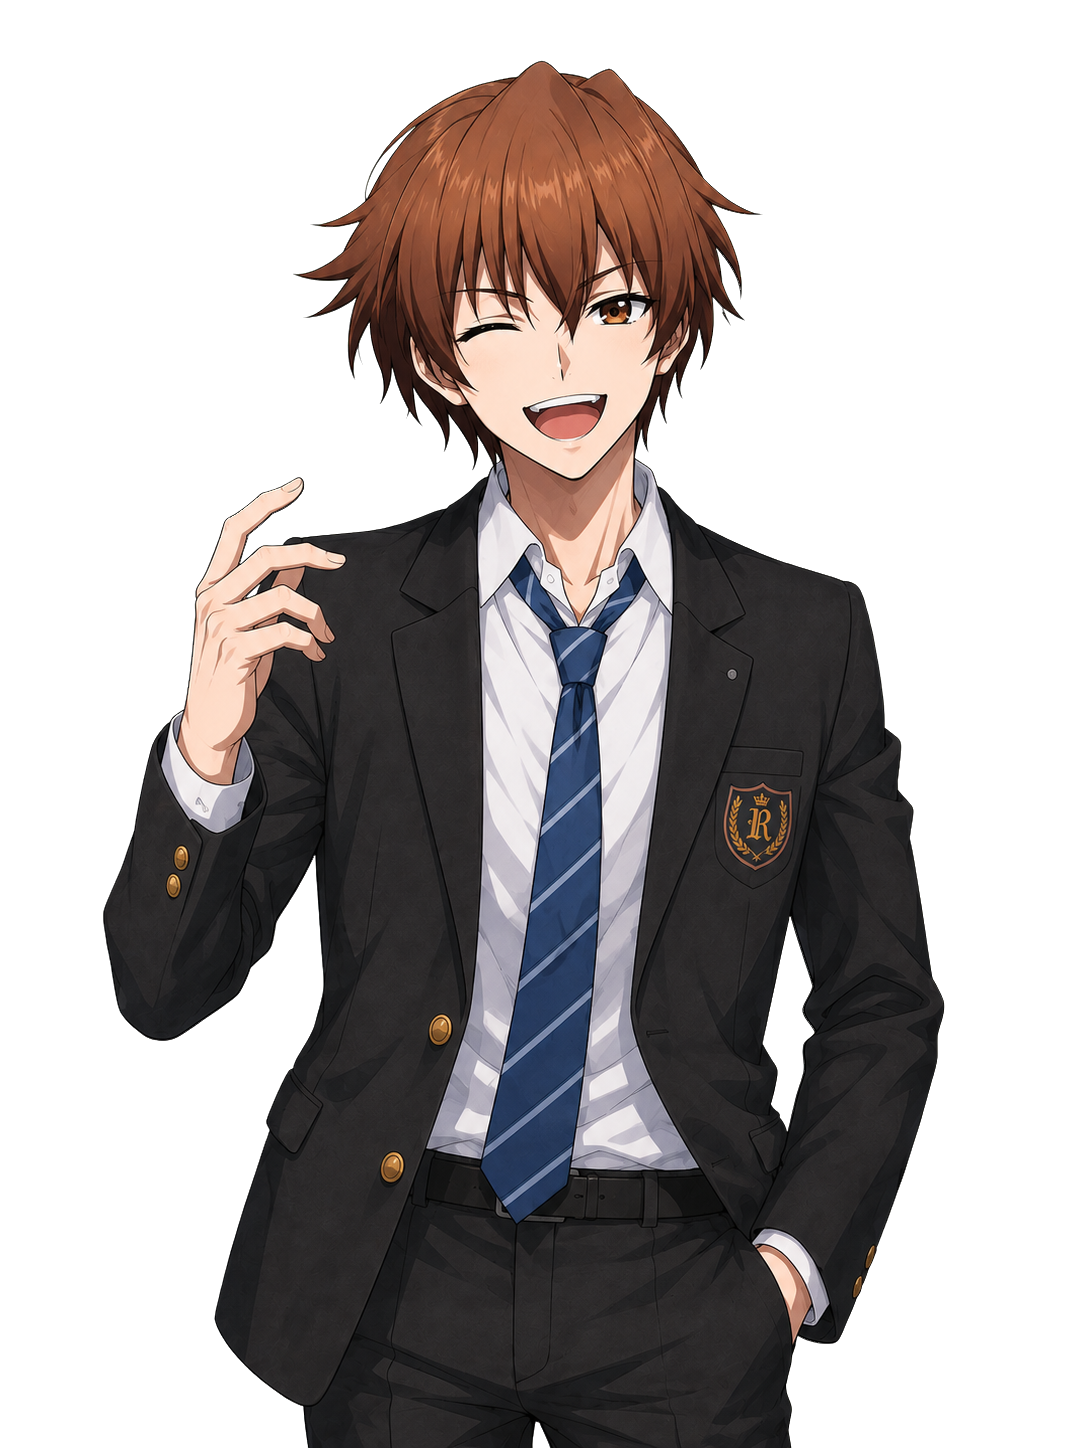
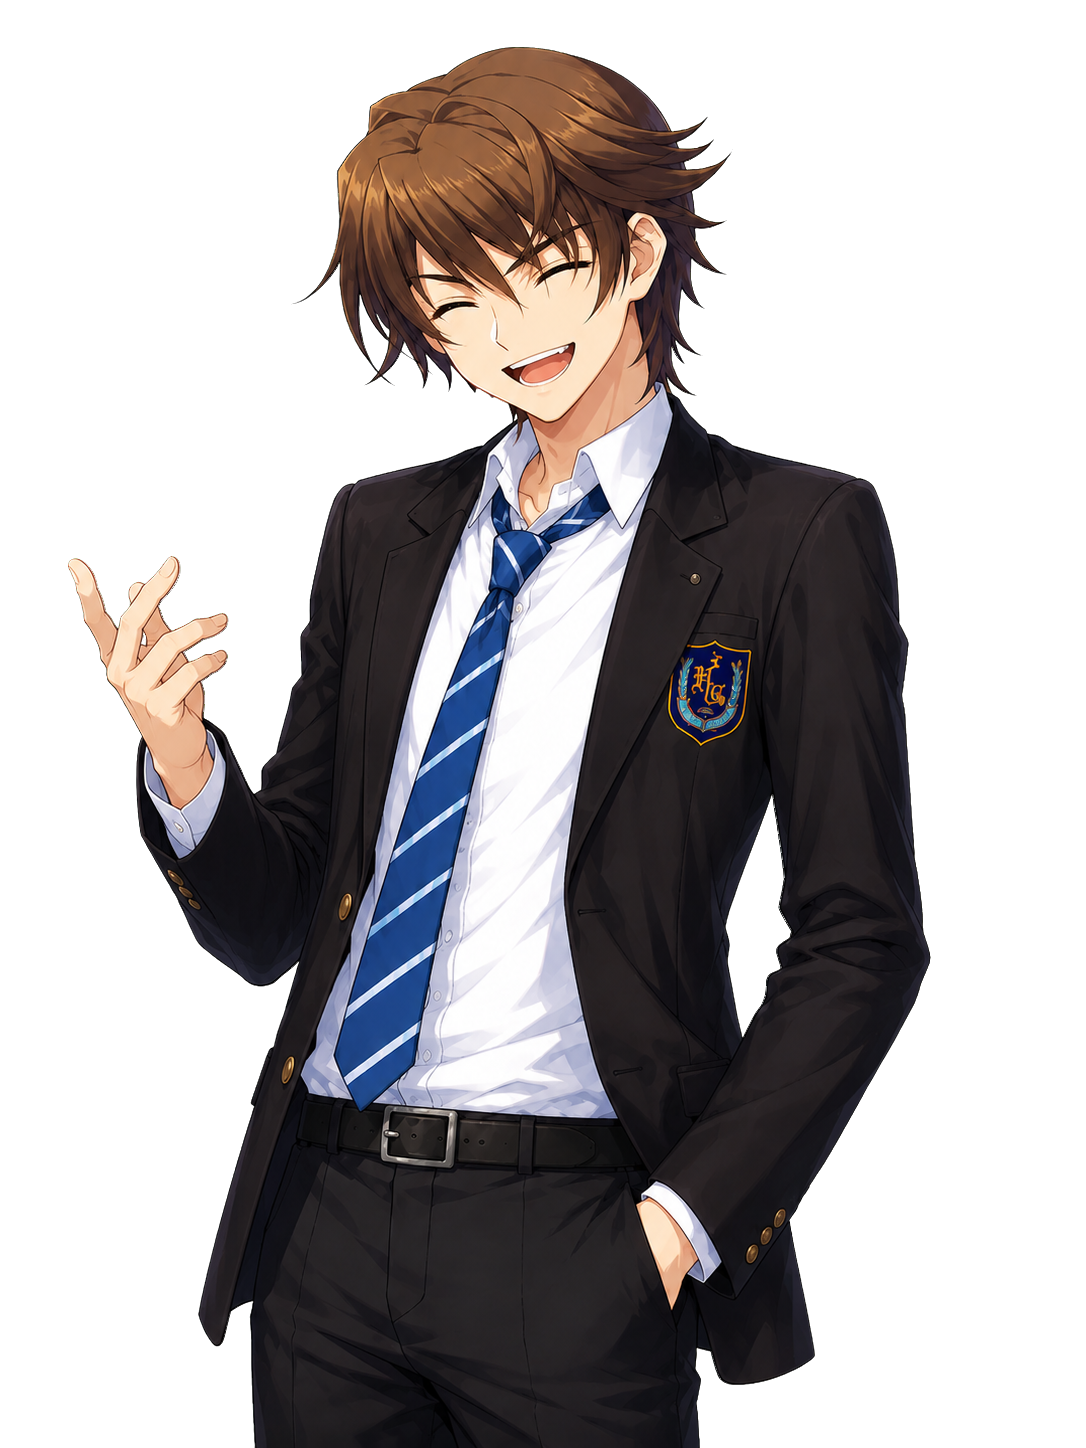
feat: expand WA2 character guidance and portraits

diff --git a/test/game-card/whiteAlbumCharacterGuide.test.js b/test/game-card/whiteAlbumCharacterGuide.test.js
@@ -1,0 +1,90 @@
+const fs = require('node:fs');
+const path = require('node:path');
+const { card, stateSchema } = require('./whiteAlbumTestCard');
+const { applyGameCard } = require('../../src/renderer/gameCard/engine');
+const { ensureStateDefaults } = require('../../src/shared/game-card/state/stateSchema');
+const { mergeAudioStateSchema } = require('../../src/renderer/gameCard/stateSchemaLoader');
+
+const loadedCard = mergeAudioStateSchema({ ...card, state: { ...card.state, schema: stateSchema } });
+const cardDir = path.join(__dirname, '../../game-card-examples/white-album-2');
+const readCardFile = (relativePath) => fs.readFileSync(path.join(cardDir, relativePath), 'utf-8');
+const fileContents = {
+  'first_msg.md': readCardFile('first_msg.md'),
+  'system_prompt.md': readCardFile('system_prompt.md'),
+  'roleplay_rules.md': readCardFile('roleplay_rules.md'),
+  'plot/chapter-1.md': readCardFile('plot/chapter-1.md'),
+  'plot/chapter-2.md': readCardFile('plot/chapter-2.md'),
+  'state/schema.json': JSON.stringify(stateSchema),
+  'state/llm_schema.md': readCardFile('state/llm_schema.md'),
+  'state/state_update_rules.md': readCardFile('state/state_update_rules.md'),
+  'scripts/timeline.js': readCardFile('scripts/timeline.js'),
+  'scripts/timelines/chapter-1.js': readCardFile('scripts/timelines/chapter-1.js'),
+  'scripts/timelines/chapter-2.js': readCardFile('scripts/timelines/chapter-2.js'),
+  'worldbook/characters.md': readCardFile('worldbook/characters.md'),
+  'worldbook/index.md': readCardFile('worldbook/index.md'),
+  'worldbook/location.md': readCardFile('worldbook/location.md')
+};
+
+function runFreePlot(currentTime = '2007.10.25: 08:00 星期四') {
+  const state = ensureStateDefaults(loadedCard.state.schema, {
+    timeline: { currentTime }
+  }).state;
+  const init = applyGameCard({ card: loadedCard, phase: 'init', messages: [], state, fileContents });
+  return applyGameCard({
+    card: loadedCard,
+    phase: 'pre_send',
+    messages: [...init.messages, { role: 'user', content: '继续' }],
+    state: init.state,
+    fileContents
+  });
+}
+
+function latestUserGuide(result) {
+  return result.messages.findLast((message) => message.role === 'user').content;
+}
+
+describe('white album character weak guide', () => {
+  afterEach(() => jest.restoreAllMocks());
+
+  test('injects the Setsuna guide independently from a negative plot mood', () => {
+    jest.spyOn(Math, 'random')
+      .mockReturnValueOnce(0)
+      .mockReturnValueOnce(0.99)
+      .mockReturnValue(0);
+
+    const result = runFreePlot();
+
+    expect(result.state.temp.plotMood).toBe('tragic');
+    expect(result.state.temp.characterGuideRoll).toBe(100);
+    expect(latestUserGuide(result)).toContain('本轮可以根据用户行动、当前场景和最近剧情');
+  });
+
+  test('omits the Setsuna guide independently from a positive plot mood', () => {
+    jest.spyOn(Math, 'random')
+      .mockReturnValueOnce(0.99)
+      .mockReturnValueOnce(0)
+      .mockReturnValue(0);
+
+    const result = runFreePlot();
+
+    expect(result.state.temp.plotMood).toBe('happy');
+    expect(result.state.temp.characterGuideRoll).toBe(1);
+    expect(latestUserGuide(result)).not.toContain('本轮可以根据用户行动、当前场景和最近剧情');
+  });
+
+  test.each([
+    ['FreePlot3', '2007.10.30: 17:30 星期二'],
+    ['FreePlot4', '2007.10.31: 17:30 星期三']
+  ])('injects the Touma guide during %s', (plotType, currentTime) => {
+    jest.spyOn(Math, 'random')
+      .mockReturnValueOnce(0.5)
+      .mockReturnValueOnce(0.99)
+      .mockReturnValue(0);
+
+    const result = runFreePlot(currentTime);
+
+    expect(result.state.temp.PlotType).toBe(plotType);
+    expect(result.state.temp.characterGuideRoll).toBe(100);
+    expect(latestUserGuide(result)).toContain('选择是否加入一次关于冬马和纱的自然弱引导');
+  });
+});

diff --git a/test/game-card/whiteAlbumPortraitSelection.test.js b/test/game-card/whiteAlbumPortraitSelection.test.js
@@ -8,23 +8,31 @@ const { mergeAudioStateSchema } = require('../../src/renderer/gameCard/stateSche
 const cardDir = path.join(__dirname, '../../game-card-examples/white-album-2');
 const loadedCard = mergeAudioStateSchema({ ...card, state: { ...card.state, schema: stateSchema } });
 const portraitCharacters = Object.keys(loadedCard.visual.portrait);
-const portraitExpressions = ['normal', 'happy', 'sad', 'angry', 'surprise'];
+const portraitExpressions = [
+  'normal', 'happy', 'sad', 'cry', 'angry', 'surprise', 'joy', 'sweating_smile'
+];
 const portraitNames = {
   touma: '冬马和纱',
   setsuna: '小木曾雪菜',
   mizusawa: '水泽依绪',
   takeya: '饭冢武也',
+  chikashi: '早坂亲志',
   yanagihara: '柳原朋'
 };
 const portraitExpressionMeanings = {
   normal: '平静自然',
   happy: '开心喜悦',
   sad: '悲伤失落',
+  cry: '哭泣落泪',
   angry: '生气愤怒',
-  surprise: '惊讶意外'
+  surprise: '惊讶意外',
+  joy: '兴奋欢笑',
+  sweating_smile: '尴尬冒汗地笑'
 };
+const yanagiharaExpressionAliases = { cry: 'sad', joy: 'happy', sweating_smile: 'normal' };
+const portraitProperties = stateSchema.schema['visual.portraits'].properties;
 const portraitCases = portraitCharacters.flatMap(character => (
-  Object.keys(loadedCard.visual.portrait[character]).map(expression => [character, expression])
+  portraitProperties[character].values.map(expression => [character, expression])
 ));
 
 function pngDimensions(filePath) {
@@ -71,16 +79,26 @@ describe('white album portrait selection', () => {
     });
   });
 
-  test('registers five expressions for all five supported characters', () => {
-    expect(portraitCharacters).toHaveLength(5);
-    ['touma', 'setsuna', 'mizusawa', 'takeya', 'yanagihara'].forEach((character) => {
+  test('registers all eight expressions for all six supported characters', () => {
+    expect(portraitCharacters).toHaveLength(6);
+    ['touma', 'setsuna', 'mizusawa', 'takeya', 'chikashi', 'yanagihara'].forEach((character) => {
       portraitExpressions.forEach((expression) => {
         const resource = loadedCard.visual.portrait[character][expression];
-        expect(resource).toBe(`images/${character}/${expression}.png`);
+        const fileExpression = character === 'yanagihara'
+          ? yanagiharaExpressionAliases[expression] || expression
+          : expression;
+        expect(resource).toBe(`images/${character}/${fileExpression}.png`);
         const imagePath = path.join(cardDir, resource);
         expect(fs.existsSync(imagePath)).toBe(true);
-        expect(pngDimensions(imagePath)).toEqual({ width: 2560, height: 1920, colorType: 6 });
+        expect(pngDimensions(imagePath)).toEqual({ width: 1086, height: 1448, colorType: 6 });
       });
+    });
+  });
+
+  test('keeps all character resource and state expression sets aligned', () => {
+    portraitCharacters.forEach((character) => {
+      expect(Object.keys(loadedCard.visual.portrait[character])).toEqual(portraitExpressions);
+      expect(portraitProperties[character].values).toEqual(portraitExpressions);
     });
   });
 

diff --git a/test/game-card/whiteAlbumChikashiWorldbook.test.js b/test/game-card/whiteAlbumChikashiWorldbook.test.js
@@ -1,0 +1,25 @@
+const fs = require('node:fs');
+const path = require('node:path');
+const { card } = require('./whiteAlbumTestCard');
+
+const cardDir = path.join(__dirname, '../../game-card-examples/white-album-2');
+const readCardFile = (relativePath) => fs.readFileSync(path.join(cardDir, relativePath), 'utf-8');
+
+describe('white album Chikashi worldbook', () => {
+  test('documents Chikashi in the character book and index', () => {
+    const characters = readCardFile('worldbook/characters.md');
+    const index = readCardFile('worldbook/index.md');
+
+    expect(characters).toContain('## 早坂亲志');
+    expect(characters).toContain('三年E班学生，春希的同班同学');
+    expect(characters).toContain('实际经常把麻烦和工作托付给认真负责的春希');
+    expect(index).toContain('- 早坂亲志: 春希的三年E班同学');
+  });
+
+  test('loads the entry when recent messages mention Chikashi', () => {
+    const rules = JSON.stringify(card.rules);
+
+    expect(rules).toContain('亲志|親志|早坂|Hayasaka|Chikashi');
+    expect(rules).toContain('{{file:worldbook.characters#早坂亲志}}');
+  });
+});

diff --git a/game-card-examples/white-album-2/scripts/timeline.js b/game-card-examples/white-album-2/scripts/timeline.js
@@ -49,6 +49,7 @@ function run(ctx) {
     state.temp.plotKind = 'free';
     state.temp.includeFreeGuide = true;
     state.temp.plotDirectionRoll = roll;
+    state.temp.characterGuideRoll = utils.randomInt(1, 100);
     state.temp.plotMood = mood;
     state.temp.plotMoodSection = `PlotMood_${mood}`;
     state.temp.toumaAttitudeSection = resolveAttitudeSection('ToumaAttitude', state.touma && state.touma.affection);
@@ -58,6 +59,7 @@ function run(ctx) {
   function applyFixedPlot() {
     state.temp.plotKind = 'fixed';
     state.temp.includeFreeGuide = false;
+    state.temp.characterGuideRoll = 0;
     state.temp.plotMood = '';
     state.temp.plotMoodSection = '';
     state.temp.toumaAttitudeSection = '';

diff --git a/game-card-examples/white-album-2/plot/chapter-2.md b/game-card-examples/white-album-2/plot/chapter-2.md
@@ -20,7 +20,7 @@
 
 第二段剧情时间段：2007.10.25: 7:30 星期四 - 2007.10.25: 8:00 星期四
 
-剧情引导：经过三人合奏后，春希又对轻音乐同好会登台演出燃起了希望，于是在节目单中将划掉的轻音乐同好会演出加了回来。早上刚到学校，依绪在E班门口对春希说有人找他，让他出来来学校楼梯处一下。原来是雪菜希望对昨天的邀请做一个回应。雪菜说经过一个晚上的思考，觉得果然还是不能加入轻音乐同好会，所以拒绝了春希。春希表示理解，说雪菜连选美都不愿意参加，怎么愿意出这种风头呢。春希转身要走时，雪菜在身后说对不起，没能帮上你。春希察觉到雪菜虽然拒绝了，但神情有些微妙，说不定可以想些别的方法。
+剧情引导：经过三人合奏后，春希又对轻音乐同好会登台演出燃起了希望，于是在节目单中将划掉的轻音乐同好会演出加了回来。早上刚到学校，依绪在E班门口对春希说有人找他，让他出来来学校楼梯处一下。原来是雪菜希望对昨天的邀请做一个回应。雪菜说经过一个晚上的思考，觉得果然还是不能加入轻音乐同好会，所以拒绝了春希。春希表示理解，说雪菜连选美都不愿意参加，怎么愿意出这种风头呢。春希转身要走时，雪菜说从今往后……我也可以，和你说话吧？春希察觉到雪菜虽然拒绝了，但神情有些微妙，说不定这件事情没有结束。
 
 本轮必须完成该剧情节点的所有剧情描写，禁止写多余的剧情和人物互动。
 
@@ -33,6 +33,14 @@
 剧情引导：围绕用户的行动结合上下文自然展开，不要写和用户行动无关的多余剧情，剧情的时间线自然推进到用户行动引发的事件结束，可以在本时间段内的中间停留，不一定需要推进到当前时间段的末尾。注意雪菜此时不会答应加入轻音乐同好会，春希无从得知隔壁的神秘钢琴手是谁，不要主动写和冬马的互动。
 
 *绝对禁止将时间推进到 2007.10.29: 17:00 星期一 之后*
+
+## FreePlot1SetsunaWeakGuide
+
+本轮可以根据用户行动、当前场景和最近剧情，选择是否加入一次关于小木曾雪菜的自然弱引导。这不是必须完成的剧情任务；当前时机不合适时可以完全不使用。
+
+如果使用，只选择一种最自然、侵入性最低的方式：通过春希短暂的心理活动想起雪菜拒绝邀请时微妙的表现；通过校园环境或其他人的只言片语侧面描写雪菜；在时间和地点合理时自然偶遇雪菜；或在结尾选项中提供一个与雪菜接触的行动方向。
+
+不得打断或改变用户已经明确提出的行动。用户正在与雪菜互动、最近剧情已经明显引导过雪菜，或者当前场景不适合时，应跳过本轮弱引导。一轮最多使用一种引导方式。弱引导只能创造接触机会，不得替用户决定寻找雪菜或与她交谈，也不得提前揭露雪菜打工、独自去KTV或非常喜欢唱歌等秘密，不得让雪菜提前答应加入轻音乐同好会。
 
 ## FixedPlot2
 
@@ -174,6 +182,14 @@
 剧情引导：围绕用户的行动结合上下文自然展开，不要写和用户行动无关的多余剧情，剧情的时间线自然推进到用户行动引发的事件结束，可以在本时间段内的中间停留，不一定需要推进到当前时间段的末尾。注意雪菜此时已经答应加入轻音乐同好会，冬马已经暴露了第二音乐教室神秘人的身份，但始终拒绝加入同好会。
 
 *绝对禁止将时间推进到 2007.11.2: 21:00 星期五 之后*
+
+## ToumaWeakGuide
+
+本轮可以根据用户行动、当前场景和最近剧情，选择是否加入一次关于冬马和纱的自然弱引导。这不是必须完成的剧情任务；当前时机不合适时可以完全不使用。
+
+如果使用，只选择一种最自然、侵入性最低的方式：通过春希短暂的心理活动想起冬马的音乐才能、冷淡态度或拒绝加入同好会的表现；通过教室里的空座、第二音乐教室传来的琴声或其他人的只言片语侧面描写冬马；在时间和地点合理时自然偶遇冬马；或在结尾选项中提供一个与冬马接触的行动方向。
+
+不得打断或改变用户已经明确提出的行动。用户正在与冬马互动、最近剧情已经明显引导过冬马，或者当前场景不适合时，应跳过本轮弱引导。一轮最多使用一种引导方式。弱引导只能创造接触机会，不得替用户决定寻找、跟随或说服冬马，不得让冬马提前答应加入轻音乐同好会，也不得让她表现出超出当前好感度和人物态度的亲密或坦诚。
 
 ## FixedPlot6
 

diff --git a/game-card-examples/white-album-2/state/llm_schema.md b/game-card-examples/white-album-2/state/llm_schema.md
@@ -12,7 +12,7 @@
 ## 演出切换字段
 
 - `visual.scene`：当前镜头的基础画面。通用场景必须先根据后续正文实际发生的地点选择场景，再根据该场景的当前局部时段使用下表中的“场景名 + 时段”完整值。固定剧情临时开放的专用 CG 直接使用剧情引导给出的资源名，不要追加 morning、afternoon 或 night 后缀。
-- `visual.portraits`：当前镜头所有可见人物到表情的完整映射，最多四人。人物可写 `touma`（冬马和纱）、`setsuna`（小木曾雪菜）、`mizusawa`（水泽依绪）、`takeya`（饭冢武也）、`yanagihara`（柳原朋）；表情可写 `normal`（平静自然）、`happy`（开心喜悦）、`sad`（悲伤失落）、`angry`（生气愤怒）、`surprise`（惊讶意外）。例如 `{"touma":"sad","setsuna":"normal"}`。位置和大小由平台自动编排，不要输出位置。北原春希没有立绘；远景、空镜、春希独处或没有合适立绘时写 `{}`。
+- `visual.portraits`：当前镜头所有可见人物到表情的完整映射，最多四人。人物可写 `touma`（冬马和纱）、`setsuna`（小木曾雪菜）、`mizusawa`（水泽依绪）、`takeya`（饭冢武也）、`chikashi`（早坂亲志）、`yanagihara`（柳原朋）；所有人物的表情可写 `normal`（平静自然）、`happy`（开心喜悦）、`sad`（悲伤失落）、`cry`（哭泣落泪）、`angry`（生气愤怒）、`surprise`（惊讶意外）、`joy`（兴奋欢笑）、`sweating_smile`（尴尬冒汗地笑）。例如 `{"touma":"sad","setsuna":"normal"}`。位置和大小由平台自动编排，不要输出位置。北原春希没有立绘；远景、空镜、春希独处或没有合适立绘时写 `{}`。
 - `audio.bgm`：当前镜头音乐。通用可写值：`daily`（轻松日常）、`happy`（喜悦开心）、`normal`（情绪舒缓）、`sad`（克制伤感）、`tragic`（激烈冲突）。
 
 ### 通用 background

diff --git a/game-card-examples/white-album-2/worldbook/characters.md b/game-card-examples/white-album-2/worldbook/characters.md
@@ -43,9 +43,17 @@
 性格直接、现实，能毫不客气地吐槽春希和武也，但并不是冷淡的人
 在人际关系上比春希更有距离感和判断力，常常作为旁观者指出春希不愿正视的问题
 
+## 早坂亲志
+早坂亲志:
+三年E班学生，春希的同班同学，是经常以朋友身份凑到春希身边的校园熟人
+黑色短发，校服穿得略显随意，神情和动作常带着轻松、自得的气息
+性格随性又爱耍滑头，嘴上说要为学园祭拼命，实际经常把麻烦和工作托付给认真负责的春希
+对冬马的态度意很好，心里其实很看好春希和冬马
+说话轻松随意，喜欢顺势起哄和依赖别人；相比过去已经收敛不少，但仍然是不太可靠的日常朋友
+
 ## 柳原朋
 柳原朋:
-峰城大附属的学生，曾与雪菜有过复杂关系，对雪菜的校园偶像形象抱有明显敌意和竞争心
+峰城大附属的学生，与雪菜有复杂关系，对雪菜的校园偶像形象抱有明显敌意和竞争心
 外貌精致张扬，打扮和表情都带着攻击性，站在人群中会给人强势而不好接近的印象
 性格尖锐，擅长用言语试探和刺伤别人，尤其容易针对雪菜隐藏起来的软弱与虚伪感
 她的出现会让雪菜过去的人际创伤和对孤立的恐惧浮上水面，也会加重三人关系中的不安

diff --git a/game-card-examples/white-album-2/system_prompt.md b/game-card-examples/white-album-2/system_prompt.md
@@ -6,8 +6,9 @@
 1. 使用冷静、具体、留白的叙事，描写细腻
 2. 情绪通过停顿、视线错开、手上动作、措辞失误和对话后的沉默呈现。
 3. 减少使用 “不要”，“不是”，“没有”等否定表达
-4. 禁用典型AI八股句式：不是……而是……、并不是……而是……、不只是……更是……、在这一刻、某种意义上、说不清道不明、复杂的情绪、空气中弥漫着、命运的齿轮。
-5. 可以适当使用一些设问和反问来增强语气表达
+4. 减少使用说教的语气描写人物对话
+5. 禁用典型AI八股句式：不是……而是……、并不是……而是……、不只是……更是……、在这一刻、某种意义上、说不清道不明、复杂的情绪、空气中弥漫着、命运的齿轮。
+6. 可以适当使用一些设问和反问来增强语气表达
 
 文风参考示例：
 

diff --git a/game-card-examples/white-album-2/worldbook/index.md b/game-card-examples/white-album-2/worldbook/index.md
@@ -5,6 +5,7 @@
 - 小木曾雪菜: 明亮亲切的校园偶像，害怕被孤立，也渴望维系三人的关系。
 - 饭冢武也: 春希的死党，轻浮外向但敏锐，常用玩笑推动春希行动。
 - 水泽依绪: 雪菜的同班同学，武也和春希的好友，爽朗直接，常作为旁观者点出问题。
+- 早坂亲志: 春希的三年E班同学，学园祭执行委员，嘴上为学园祭卖力、实际常依赖春希的随性朋友。
 - 柳原朋: 对雪菜抱有敌意和竞争心的学生，会刺痛雪菜隐藏的创伤。
 地点:
 - 第二音乐教室: 传说中音乐科的优等生独占的音乐教室，平时大门紧锁，一般人无法入内。
